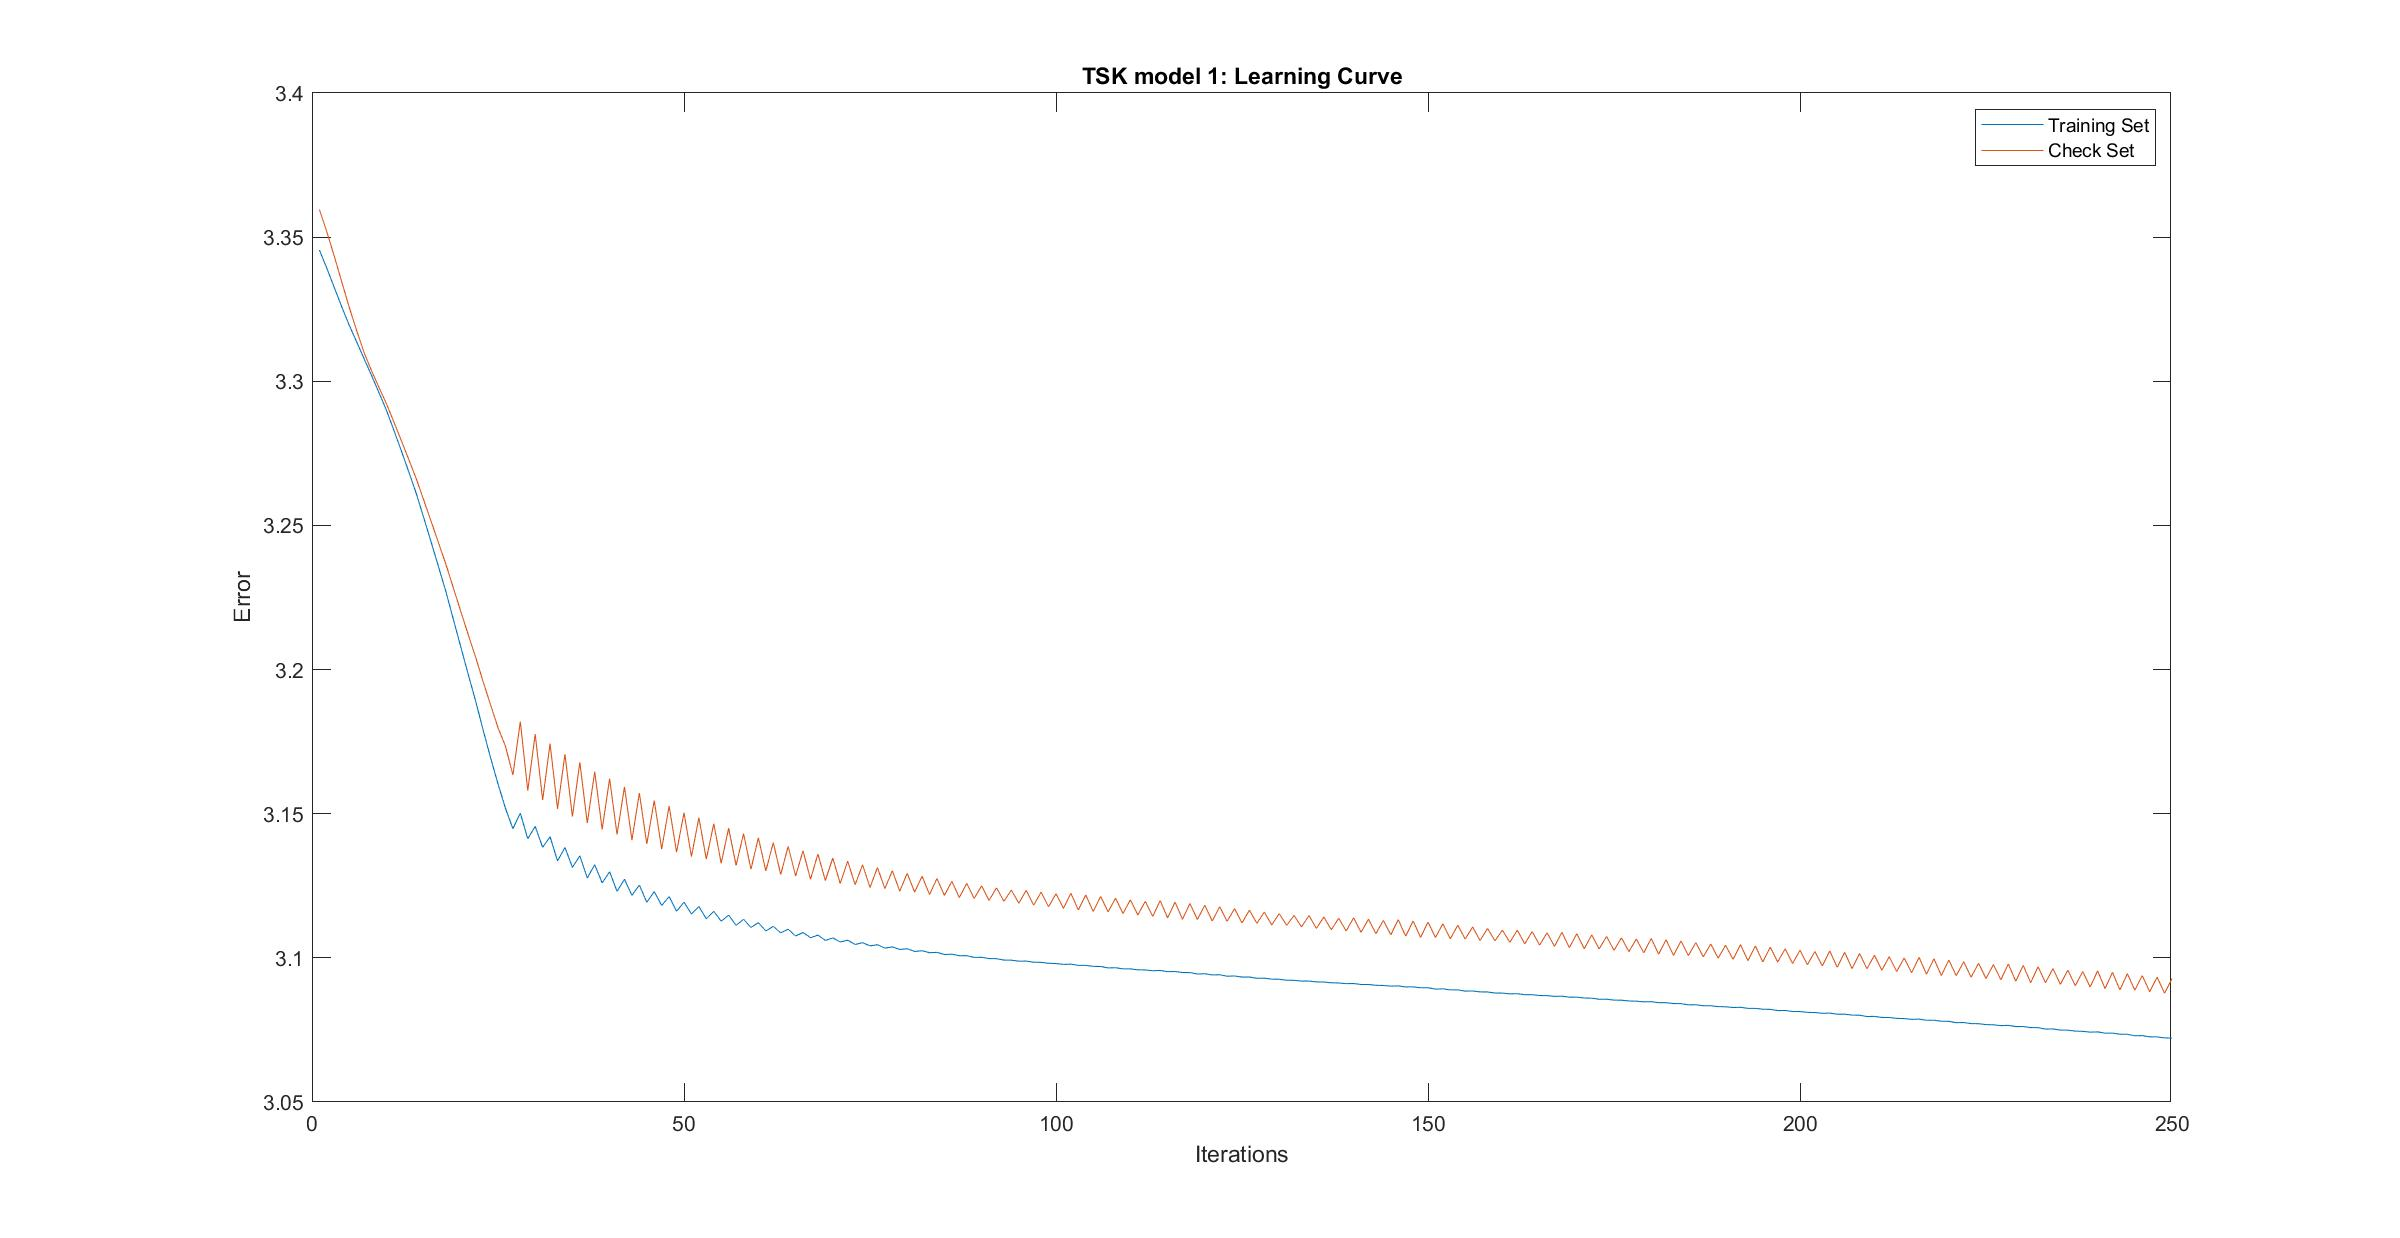
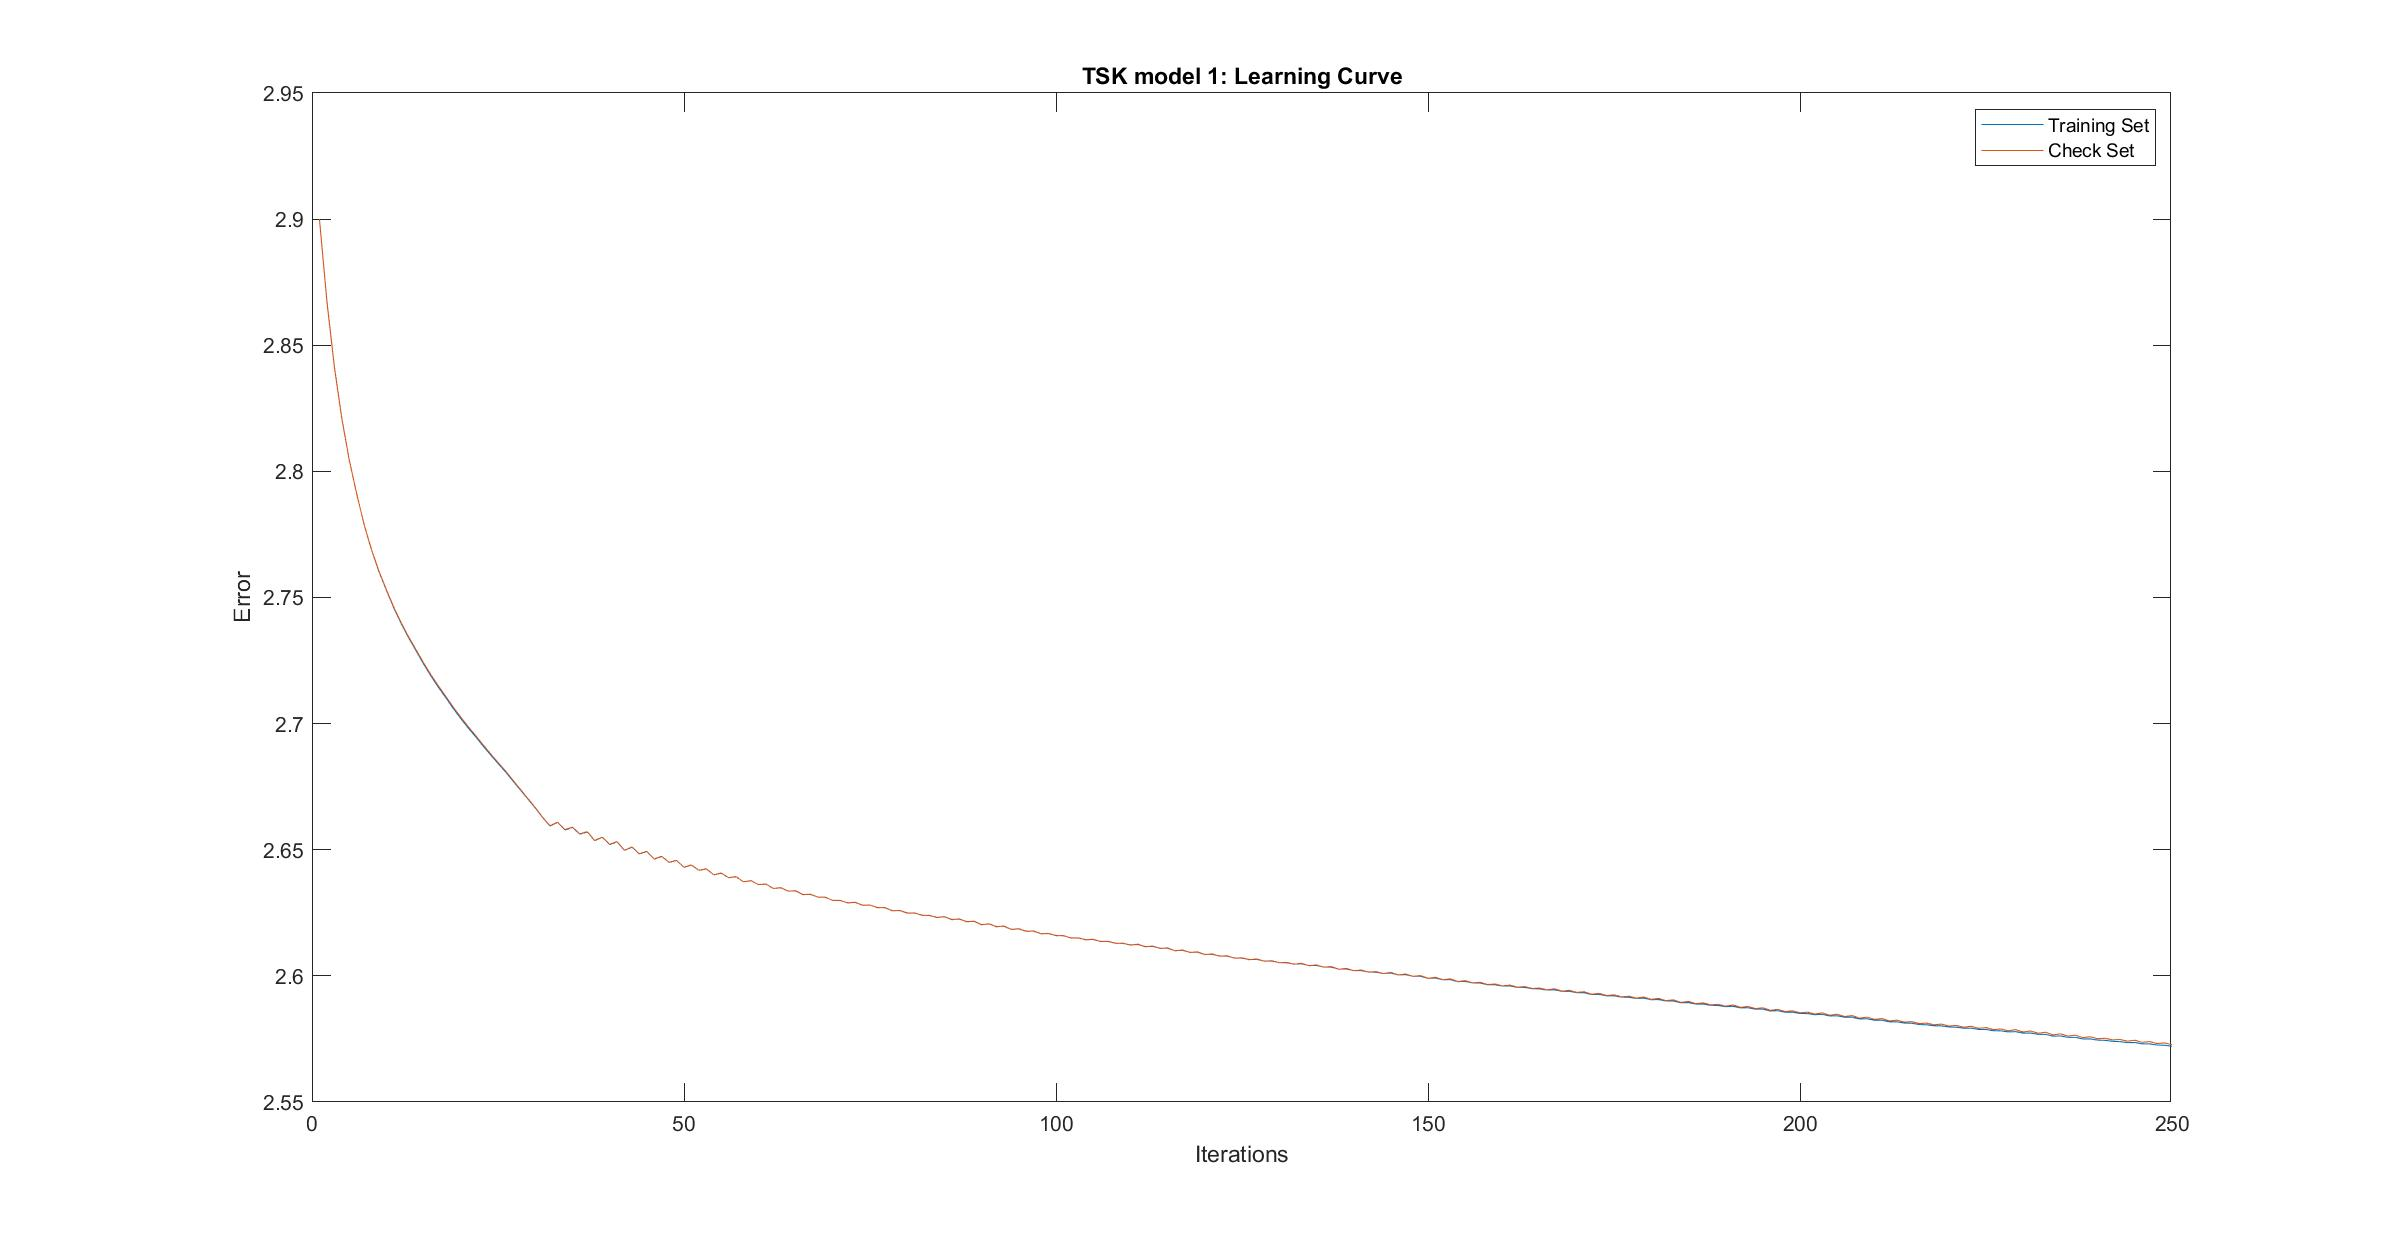
Added code to comfront class imballance issue

diff --git a/asafi-ergasia4/avilaModel.m b/asafi-ergasia4/avilaModel.m
@@ -21,7 +21,12 @@ tic
 load avila.txt
 
 % Cluster Radius parameter for Subtractive Clustering Algorithm
-radius = [0.4;0.5;0.6;0.7;0.8] ;
+radius = [0.8 0.8 0.3 0.7 0.5]';
+
+% Squash Factor - genfis option 
+% (Number of Clusters-Rules respectively: 4 8 12 16 20)
+sqFactor=[0.5 0.45 0.475 0.4 0.432]';
+
 % Number of Rules produced by Subtractive Clustering Algorithm
 NR = zeros(size(radius,1),1);
 
@@ -37,6 +42,15 @@ tbl = tabulate(avila(:,end));
 
 % Sort the dataset based on the diferrent output values
 sortedAvila = sortDataset(avila);
+
+% Uncomment the next two code-lines to improve the training proccess due to 
+% the class imbalance issue. Add duplicates of data where needed, so as to 
+% have almost equal number of data for every class.
+% Example: The First class has 8700 data while the Second Class has only 10 data.
+% In order to solve this imbalance we make copies of the data of the Second class 870 times.
+
+% sortedAvila = BallanceDataset(tbl,sortedAvila);
+% tbl = tabulate(sortedAvila(:,end));
 
 %% Split the Dataset
 
@@ -105,7 +119,7 @@ check_set = shuffleSet(check_set);
 for m = 1 : length(NR)
     
     % Set Subtractive Clustering Options
-    genfis_opt = genfisOptions('SubtractiveClustering','ClusterInfluenceRange',radius(m),'Verbose',0);
+    genfis_opt = genfisOptions('SubtractiveClustering','ClusterInfluenceRange',radius(m),'SquashFactor',sqFactor(m),'Verbose',0);
     
     % Generate the FIS
     InitialFIS = genfis(training_set(:,1:end-1), training_set(:,end), genfis_opt);
@@ -115,7 +129,7 @@ for m = 1 : length(NR)
     
     for i = 1 : length(InitialFIS.output.mf)
         InitialFIS.output.mf(i).type = 'constant';
-%         InitialFIS.output.mf(i).params = rand(); %%%%%%%%%%%%%%%%%%%%%%%%%%%%%%%%%%
+        InitialFIS.output.mf(i).params = rand()*10;
     end
     
     % Plot Inital Membership Functions
@@ -214,6 +228,31 @@ function sorted = sortDataset(dataset)
 
 [~,idx] = sort(dataset(:,end));
 sorted = unique( dataset(idx,:) ,'rows','stable');
+
+end
+
+%% Function to comfront class imbalance issue (Long Delay)
+function [Arr,tbl] = BallanceDataset(tbl,sortedArr)
+
+maxCount = max(tbl(:,2));
+tempArr = cell(length(tbl),1);
+count = 1;
+col = sortedArr(1,end);
+for i = 1:length(sortedArr)
+    if(col ~= sortedArr(i,end))
+       count = 1; 
+    end
+   col = sortedArr(i,end);
+   tempArr{col}(count,:) = sortedArr(i,:);
+   count = count + 1;
+end
+
+Arr = double.empty(0,size(sortedArr,2));
+for i = 1:length(tbl)
+    for j = 1:round(maxCount/size(tempArr{i},1))
+        Arr = cat(1,Arr,tempArr{i});
+    end
+end
 
 end
 

diff --git a/asafi-ergasia4/gridSearch.m b/asafi-ergasia4/gridSearch.m
@@ -46,6 +46,15 @@ tbl = tabulate(isolet(:,end));
 % Sort the dataset based on the diferrent output values
 sortedIsolet = sortDataset(isolet);
 
+% Uncomment the next two code-lines to improve the training proccess due to 
+% the class imbalance issue. Add duplicates of data where needed, so as to 
+% have almost equal number of data for every class.
+% Example: The First class has 8700 data while the Second Class has only 10 data.
+% In order to solve this imbalance we make copies of the data of the Second class 870 times.
+
+% sortedIsolet = BallanceDataset(tbl,sortedIsolet);
+% tbl = tabulate(sortedIsolet(:,end));
+
 %% Split the Dataset
 
 % Initialize arrays for the different sets
@@ -301,6 +310,31 @@ function sorted = sortDataset(dataset)
 
 [~,idx] = sort(dataset(:,end));
 sorted = unique( dataset(idx,:) ,'rows','stable');
+
+end
+
+%% Function to comfront class imbalance issue (Long Delay)
+function [Arr,tbl] = BallanceDataset(tbl,sortedArr)
+
+maxCount = max(tbl(:,2));
+tempArr = cell(length(tbl),1);
+count = 1;
+col = sortedArr(1,end);
+for i = 1:length(sortedArr)
+    if(col ~= sortedArr(i,end))
+       count = 1; 
+    end
+   col = sortedArr(i,end);
+   tempArr{col}(count,:) = sortedArr(i,:);
+   count = count + 1;
+end
+
+Arr = double.empty(0,size(sortedArr,2));
+for i = 1:length(tbl)
+    for j = 1:round(maxCount/size(tempArr{i},1))
+        Arr = cat(1,Arr,tempArr{i});
+    end
+end
 
 end
 
